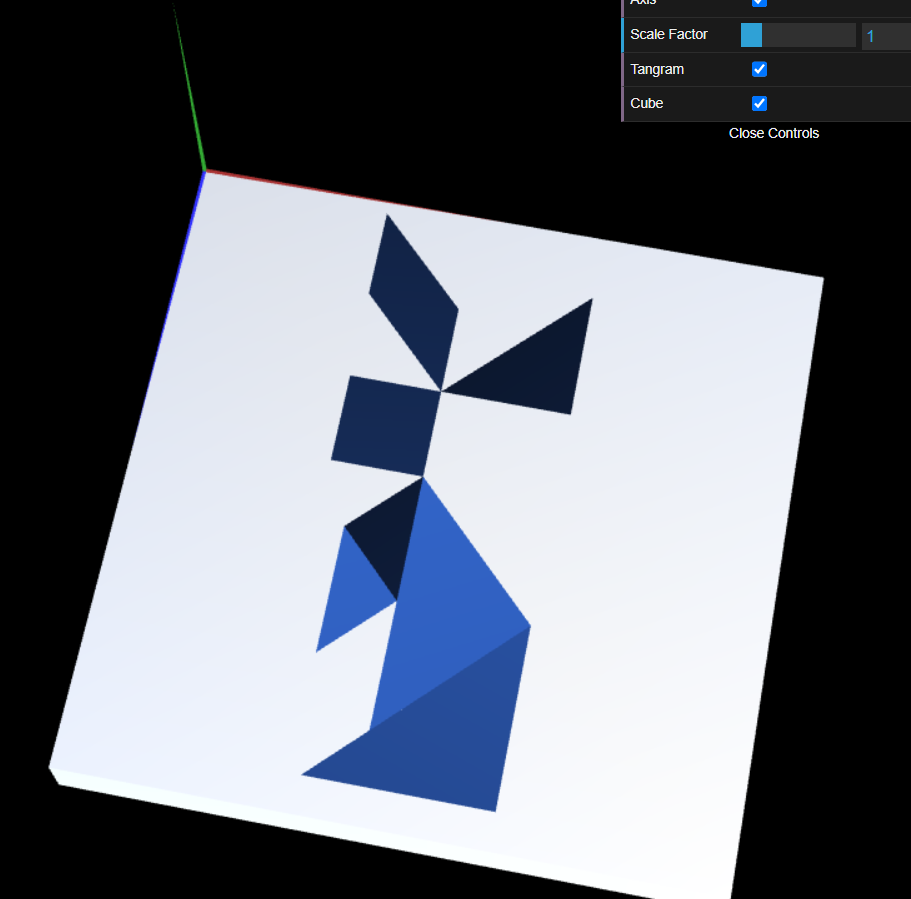
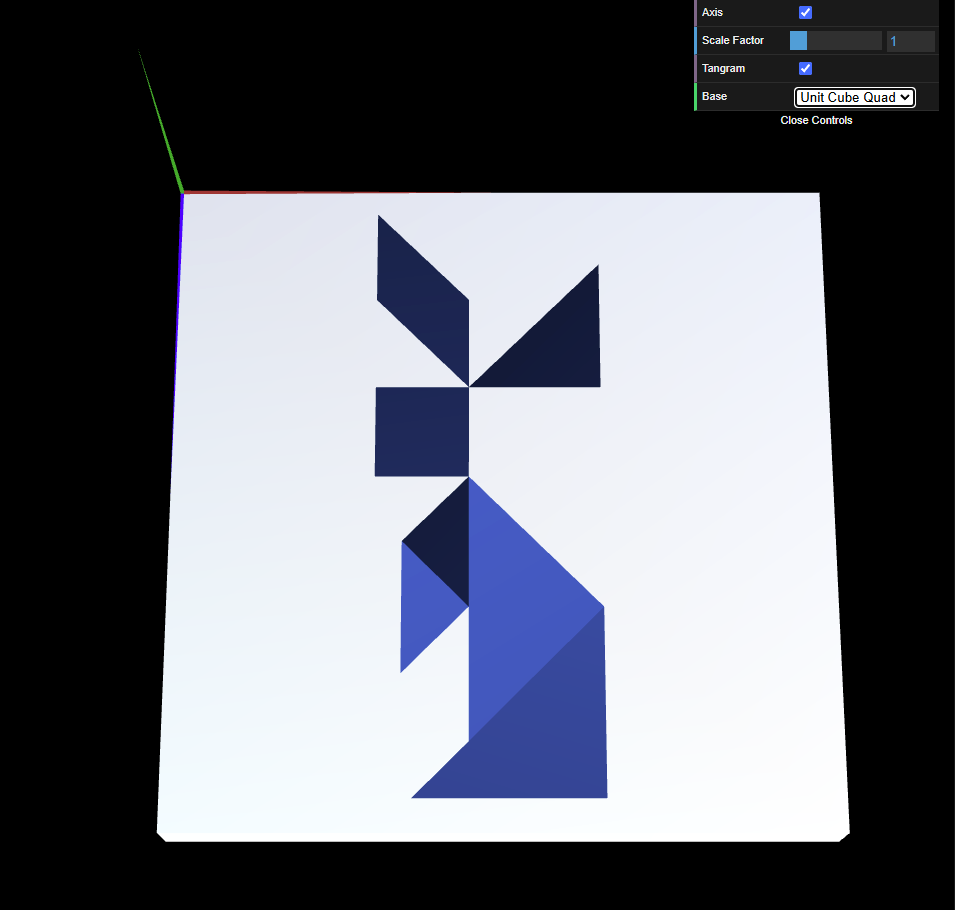
feat(tp2): add dropdown for the tangram's base

diff --git a/tp2/MyScene.js b/tp2/MyScene.js
@@ -1,6 +1,7 @@
 import { CGFscene, CGFcamera, CGFaxis } from '../lib/CGF.js';
 
 // objects
+import { MyUnitCube } from './objects/MyUnitCube.js';
 import { MyUnitCubeQuad } from './objects/MyUnitCubeQuad.js';
 import { MyTangram } from './objects/MyTangram.js';
 
@@ -29,13 +30,17 @@ export class MyScene extends CGFscene {
         //Initialize scene objects
         this.axis = new CGFaxis(this);
         this.tangram = new MyTangram(this);
-        this.cube = new MyUnitCubeQuad(this);
+        this.bases = {
+            'None': null,
+            'Unit Cube': new MyUnitCube(this),
+            'Unit Cube Quad': new MyUnitCubeQuad(this),
+        };
 
         // variables connected to MyInterface
         this.displayAxis = true;
         this.scaleFactor = 1;
         this.displayTangram = true;
-        this.displayCube = true;
+        this.selectedBase = 'Unit Cube';
     }
 
     initLights() {
@@ -103,13 +108,13 @@ export class MyScene extends CGFscene {
         if (this.displayTangram) {
             this.tangram
                 .rotate((3 * Math.PI) / 2, 1, 0, 0)
-                .translate(4.5, 0.5, 4.7)
+                .translate(4.5, 0.2, 4.7)
                 .display();
         }
 
-        if (this.displayCube) {
+        if (this.bases[this.selectedBase]) {
             this.setDiffuse(1, 1, 1, 0); // color the cube white
-            this.cube
+            this.bases[this.selectedBase]
                 .scale(10, 1, 10)
                 .translate(5, -0.5, 5)
                 .display();

diff --git a/tp2/MyInterface.js b/tp2/MyInterface.js
@@ -17,15 +17,16 @@ export class MyInterface extends CGFinterface {
         // https://github.com/dataarts/dat.gui/blob/master/API.md
         this.gui = new dat.GUI();
 
-        //Checkbox element in GUI
+        // checkbox element in GUI
         this.gui.add(this.scene, 'displayAxis').name('Axis');
 
-        //Slider element in GUI
+        // slider element in GUI
         this.gui.add(this.scene, 'scaleFactor', 0.1, 5).name('Scale Factor');
 
-        // radio buttons in GUI
         this.gui.add(this.scene, 'displayTangram').name('Tangram');
-        this.gui.add(this.scene, 'displayCube').name('Cube');
+        this.gui
+            .add(this.scene, 'selectedBase', Object.keys(this.scene.bases))
+            .name('Base');
 
         return true;
     }

diff --git a/tp1/MyInterface.js b/tp1/MyInterface.js
@@ -17,13 +17,13 @@ export class MyInterface extends CGFinterface {
         // https://github.com/dataarts/dat.gui/blob/master/API.md
         this.gui = new dat.GUI();
 
-        //Checkbox element in GUI
+        // checkbox element in GUI
         this.gui.add(this.scene, 'displayAxis').name('Axis');
 
-        //Slider element in GUI
+        // slider element in GUI
         this.gui.add(this.scene, 'scaleFactor', 0.1, 5).name('Scale Factor');
 
-        // radio buttons in GUI
+        // dropdown element in GUI
         this.gui
             .add(this.scene, 'selectedObject', Object.keys(this.scene.objects))
             .name('Object');

diff --git a/tp2/README.md b/tp2/README.md
@@ -18,7 +18,7 @@ In this practical assignment, we learned how to apply geometric transformations 
 | :------------------------------------------: |
 |     **Figure 2:** A tangram with a base      |
 
-- For exercise 3, we recreated the cube, but this time, instead of defining its geometry, we modelled it by applying geometric transformations to a [square](objects/MyQuad.js). Creating the square was pretty straightforward and using geometric transformations was much simpler than manually defining the geometry. We then replaced the cube from the previous exercise with the new cube in the main scene, making it the new base for the tangram, as shown in Figure 3.
+- For exercise 3, we recreated the [cube](objects/MyUnitCubeQuad.js), but this time, instead of defining its geometry, we modelled it by applying geometric transformations to a [square](objects/MyQuad.js). Creating the square was pretty straightforward and using geometric transformations was much simpler than manually defining the geometry. We then replaced the cube from the previous exercise with the new one, making it the new base for the tangram, as depicted in Figure 3. Curiously, we noticed the new base appeared to be dimmer, meaning it interacted differently with light, though we are unsure as to why.
 
 | ![Figure 3](screenshots/cg-t04g06-tp2-3.png) |
 | :------------------------------------------: |
